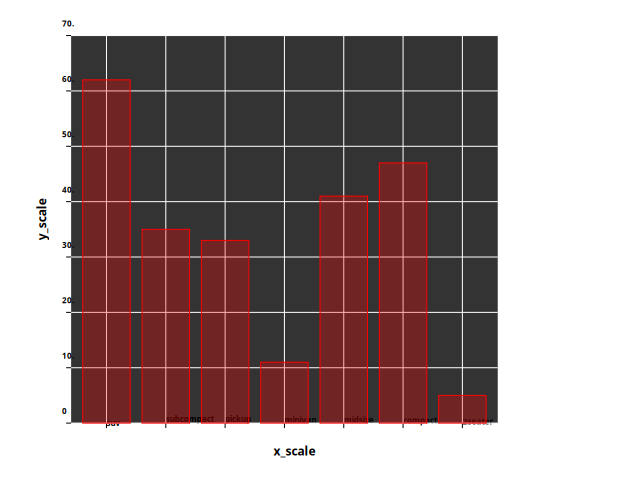
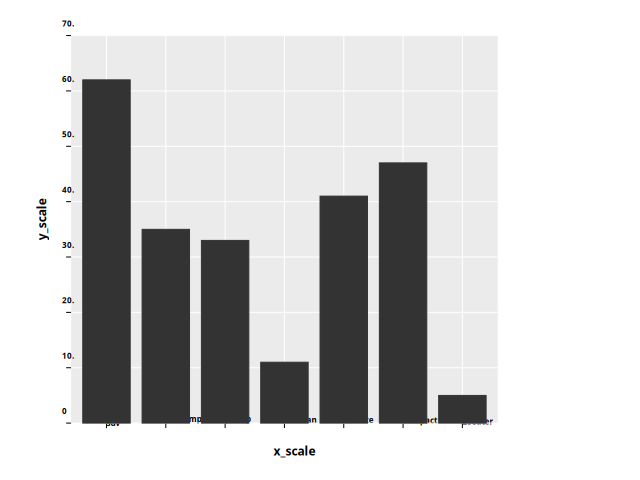
fix background color and remove temporary fill_color fix

diff --git a/src/python_ggplot/gg/geom/base.py b/src/python_ggplot/gg/geom/base.py
@@ -214,11 +214,6 @@ class GeomPoint(Geom):
         idx: int,
         style: Style,
     ):
-        # TODO CRITICAL+
-        # color is patched as red for now, because the background and grid seem to prevent from rendering
-        # this should be an easy fix needs some investigation
-        style.fill_color = Color(1, 0, 0, 1)
-        style.color = Color(1, 0, 0, 1)
         new_point = init_point(pos, style)
         view.add_obj(new_point)
 
@@ -245,12 +240,6 @@ class GeomRectDrawMixin:
 
         if y is None:
             y = 0.0
-
-        # TODO CRITICAL+ easy fix, default color for geombar is wrong
-        # also there is an issue with the background, preventing it to show
-        # look for whats wrong with the background first
-        style.fill_color = Color(1, 0, 0, 0.3)
-        style.color = Color(1, 0, 0, 1)
 
         new_rect = init_rect(
             view,

diff --git a/src/python_ggplot/gg/theme.py b/src/python_ggplot/gg/theme.py
@@ -2,7 +2,7 @@ from typing import Set
 
 from python_ggplot.core.chroma import to_opt_color
 from python_ggplot.core.objects import (
-    GREY20_DICT,
+    GREY92_DICT,
     TRANSPARENT_DICT,
     WHITE_DICT,
     AxisKind,
@@ -19,7 +19,7 @@ from python_ggplot.gg.types import GgPlot, StatBin, Theme
 def get_plot_background(theme: Theme) -> Style:
     result = Style(color=Color(**TRANSPARENT_DICT))
     result.fill_color = to_opt_color(theme.plot_background_color) or Color(
-        **GREY20_DICT
+        **GREY92_DICT
     )
     return result
 

diff --git a/src/python_ggplot/public_interface/utils.py b/src/python_ggplot/public_interface/utils.py
@@ -635,14 +635,18 @@ def minor_grid_lines(
     return theme
 
 
-def background_color(color: PossibleColor = GREY92) -> Theme:
+def background_color(color: PossibleColor = None) -> Theme:
+    if color is None:
+        color = GREY92
     return Theme(plot_background_color=color)
 
 
-def grid_line_color(color: PossibleColor = WHITE) -> Theme:
+def grid_line_color(color: PossibleColor = None) -> Theme:
     """
     deprecated, use grid_lines
     """
+    if color is None:
+        color = WHITE
     return Theme(grid_line_color=color)
 
 

diff --git a/tests/test_view.py b/tests/test_view.py
@@ -317,7 +317,7 @@ def test_geom_bar():
     plot = ggplot(mpg, aes("class")) + geom_bar()
     res = ggcreate(plot)
     ggdraw_plot(res, data_path / "geom_bar.png")
-    print(res.view.gather_coords())
+    # print(res.view)
 
 
 def test_geom_point():
